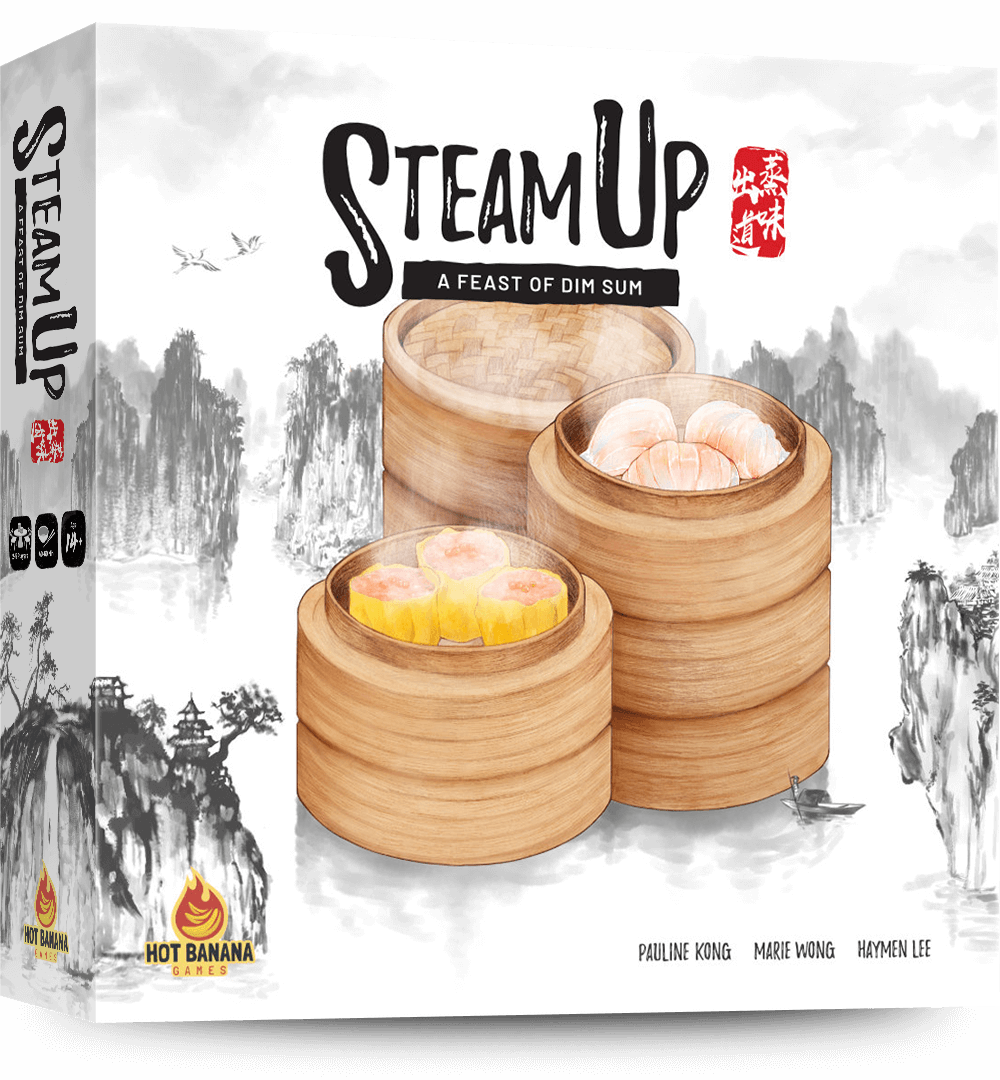
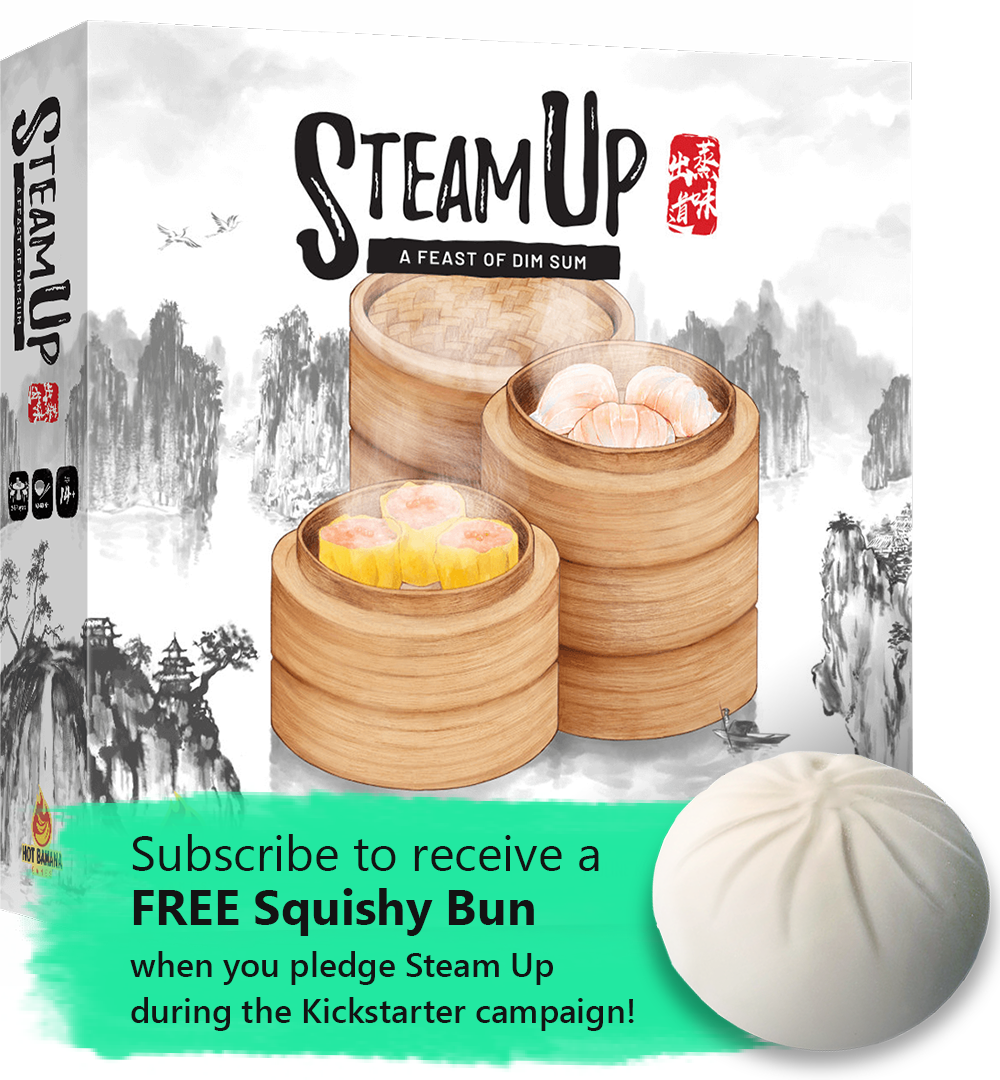
update

diff --git a/src/pages/index.js b/src/pages/index.js
@@ -30,15 +30,18 @@ const Index = () => (
       <meta name="twitter:description" content="A competitive medium-light weight Dim Sum collection tabletop game offering an authentic cultural experience." />
     </Helmet>
     <section id="top" className="py-20 bg-feature-img bg-cover bg-no-repeat bg-center text-white">
-      <div className="container mx-auto px-8 sm:flex">
-        <div className="m-auto w-1/2 sm:pr-10 md:pr-16">
+      <div className="container mx-auto px-8 md:flex">
+        <div className="m-auto w-full sm:w-5/6 md:w-1/2 pl-10 sm:pl-0 md:pr-5">
           <img className="hidden" src={OGImage} alt="Steam Up - Kickstarter Oct 19, 2021" />
           <img src={FeatureImage} alt="Steam Up: A Feast of Dim Sum" />
         </div>
-        <div className="text-center sm:text-left sm:w-1/2 xl:w-2/3 pt-4 sm:pt-4 md:pt-8 lg:pt-20">
-          <h1 className="text-3xl lg:text-4xl xl:text-5xl font-bold leading-none xl:mr-40">
+        <div className="text-center sm:w-full md:text-left md:w-1/2 xl:w-2/3 pt-4 sm:pt-4 md:pt-8 lg:pt-20">
+          <h1 className="text-3xl md:text-4xl xl:text-5xl font-bold leading-none xl:mr-40">
             Delicious Dim Sum Feast Awaits You
           </h1>
+          <p className="text-xl lg:text-2xl mt-4 mb-2">
+            <strong className="text-primary-yellow">October 19th on Kickstarter</strong>
+          </p>
           <p className="text-xl lg:text-2xl mt-4 mb-2">
             You are invited! Become a VIP.
           </p>
@@ -170,6 +173,12 @@ const Index = () => (
         <div className="mx-auto max-w-screen-sm">
           <SubscribeBox textAlign="text-center" />
         </div>
+        <p className="text-lg mt-6">
+          <strong className="block text-primary-yellow text-2xl leading-7 mb-2">
+            Subscribe to receive a FREE Squishy Bun
+          </strong>
+          <span className="font-semibold">when you pledge Steam Up during the Kickstarter campaign.</span>
+        </p>
       </div>
     </section>
   </Layout>
